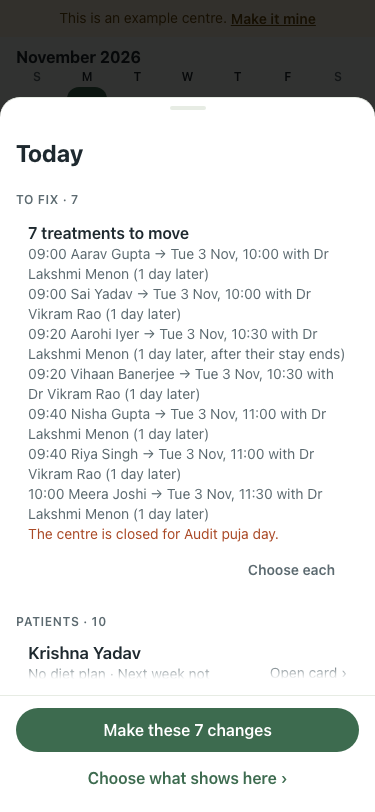
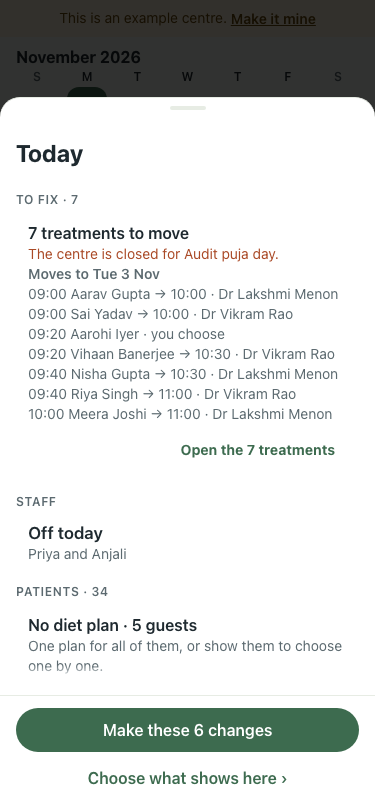
Day-check sheet: every line shows the change the button makes (#1107)
* Day-check sheet: patient first, bulk button under the thumb (Closes #1074)

The sheet read like a system log: the cause headed each row, the bulk
button sat at the top out of thumb reach, and three "not counted" staff
rows took most of the screen. The maintainer chose the one-tap list from
two prototypes.

Each problem now starts with the patient's name, then time and therapy,
then the reason in red. A group reads "N treatments to move". "Make these
N changes" moves to the sheet's foot. Staff on leave become one "Off
today" line, and the section names drop "not counted". Choice rows (a
closed day's move or cancel) stay out of the bulk button, per #358.

The smoke test for the day's problems also switches off the next_week
rule, which began counting on the badge from today's date and broke it.

* Closed day: the bulk button takes each treatment's suggested move (#1074)

The maintainer chose this on 22 Oct: a closure is planned and Undo covers
it. Cancel is never taken in bulk, and any other problem that offers a
choice stays out, as #358 says. With one cause, the row's own Fix all is
dropped because the foot's button says the same; the preview lists one
patient per line.

* Day-check sheet: every line shows the change the button makes (Closes #1106)

Since #1075 a closed day can mix guests with a suggested move and one who
must choose. The group row hid all suggestions in that case while the
foot still offered "Make these 6 changes". Now each line shows its move or
[…]

diff --git a/src/components/AttentionSheet.tsx b/src/components/AttentionSheet.tsx
@@ -237,8 +237,14 @@ export function AttentionSheet({ open, onOpenChange, apiBase, day, today, proble
     if (g.length < 2 || opened.includes(key)) return g.map(actionItem);
     const one = g.every(suggested);
     const n = `${g.length} treatments`;
-    return [item(key, `${n} to move`,
-      <>{g.map((p) => <span key={p.id} className="block">{p.start_time} {p.patient_name}{one ? ` → ${suggested(p)!.label}` : ""}</span>)}<span className="block text-destructive">{key.replace(/ on this day/, "")}</span></>, <>
+    // All to one day: the day is said once in the heading, so each line is only time, patient and therapist (#1074).
+    // Every row says its change, or that it waits for the admin: the foot's button must never act on a line the list does not show.
+    const to = [...new Set(g.map((p) => suggested(p)?.date).filter(Boolean))] as string[];
+    const sameDay = to.length === 1 ? dayText(to[0]) : null;
+    // ponytail: trims the server's label text; a label format change only makes the line longer, never wrong.
+    const short = (l: string) => sameDay ? l.replace(`${sameDay}, `, "").replace(/ \(\d+ days? later\)| \(\d+ days? later, /, (m) => m.endsWith(", ") ? " (" : "").replace(" with ", " · ") : l;
+    return [item(key, sameDay && one ? `${n} move to ${sameDay}` : `${n} to move`,
+      <><span className="block text-destructive">{key.replace(/ on this day/, "")}</span>{sameDay && !one ? <span className="block font-semibold">Moves to {sameDay}</span> : null}{g.map((p) => <span key={p.id} className="block">{p.start_time} {p.patient_name}{suggested(p) ? ` → ${short(suggested(p)!.label)}` : <span className="text-muted-foreground"> · you choose</span>}</span>)}</>, <>
         {/* With one cause the foot's button already says it (#1074). */}
         {one && causes.length > 1 ? <button type="button" data-main className={tb(true)} disabled={busy !== null} onClick={() => apply(null, ...g.map((p) => suggested(p)!))}>{busy === "all" ? "Fixing…" : `Fix all ${g.length} as shown`}</button> : null}
         <button type="button" className={tb(!one)} onClick={() => setOpened([...opened, key])}>{one ? "Choose each" : `Open the ${n}`}</button>
